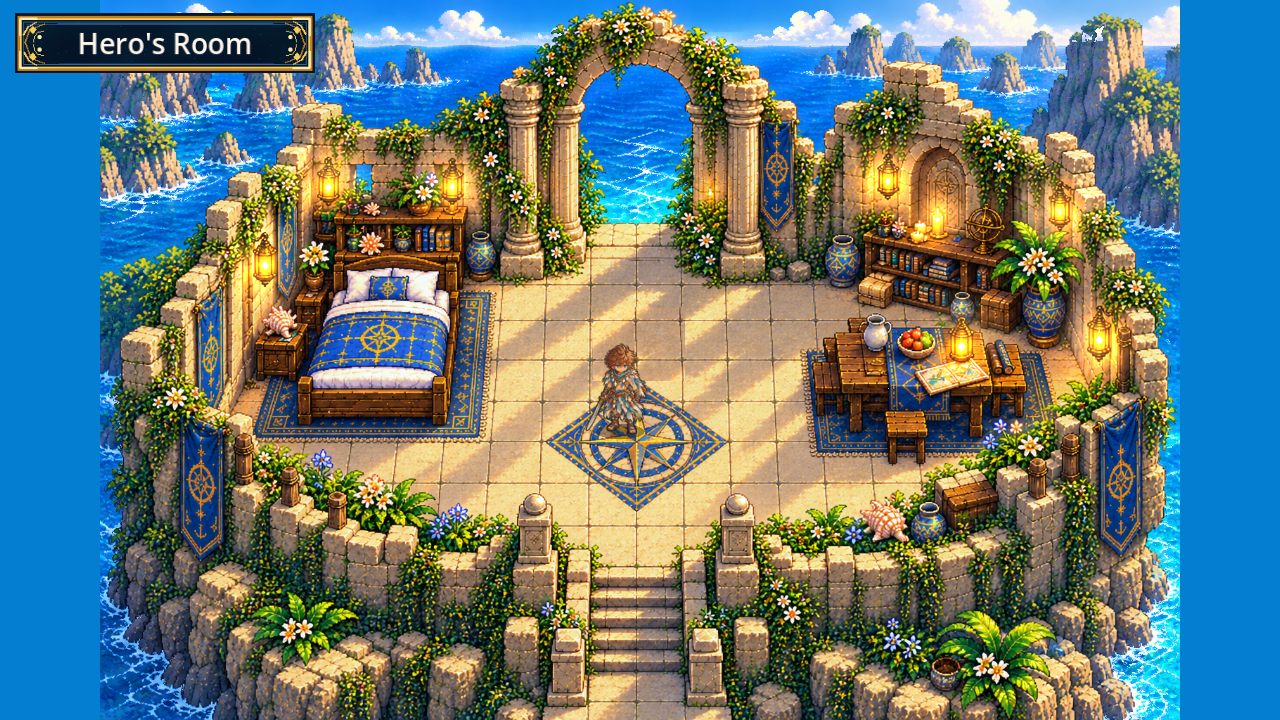
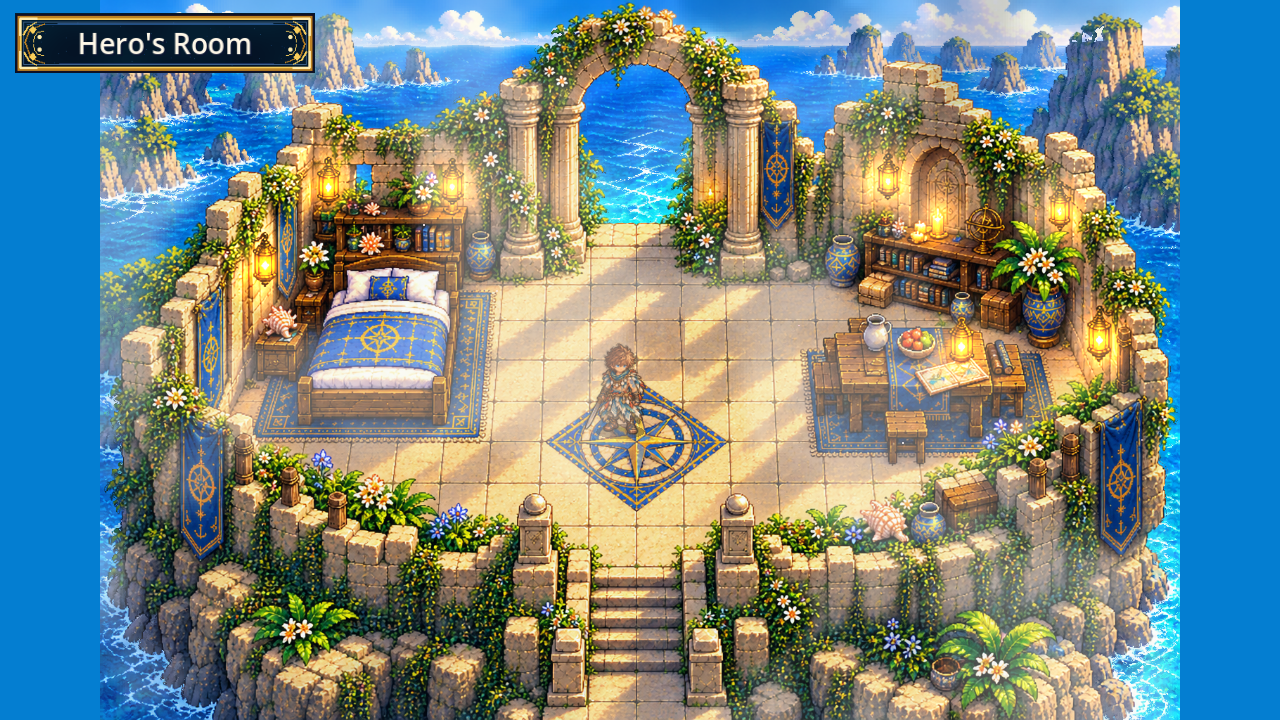
feat(room): drifting haze over the painted room; drop square spray; request Shining Force style hero frame (TASK-0168)

diff --git a/.agents/tasks/TASK-0168_hero_room_from_painting.md b/.agents/tasks/TASK-0168_hero_room_from_painting.md
@@ -8,7 +8,7 @@ branch: claude/photo-backdrop-test
 depends_on: TASK-0167
 issue: none
 art_request: ART-0050
-touches: .agents/tasks/TASK-0168_hero_room_from_painting.md,.agents/graphics/requests/ART-0050_hero_room_painting_clean_plate.md,.agents/graphics/requests/ART-0051_hero_room_small_flying_creatures.md,.agents/graphics/requests/reference_crops/ART-0050_painted_characters_target.png,scenes/main.gd,scenes/photo_room_life.gd,scenes/hero_source_art.gd,scenes/player.gd,tools/hero_source_frames.py,game_factory/hero_map_source_frames.json,.agents/graphics/requests/ART-0052_hero_room_waves_breaking_on_rocks.md,.agents/graphics/requests/ART-0053_hero_room_painted_style_clouds.md,map_factory/photo_rooms/hero_room_01.json,tools/verify_main_equipment.gd,tools/capture_game_window.gd,docs/previews/map_factory_renders/photo_backdrop_test/photo_mode.png
+touches: .agents/tasks/TASK-0168_hero_room_from_painting.md,.agents/graphics/requests/ART-0050_hero_room_painting_clean_plate.md,.agents/graphics/requests/ART-0051_hero_room_small_flying_creatures.md,.agents/graphics/requests/reference_crops/ART-0050_painted_characters_target.png,scenes/main.gd,scenes/photo_room_life.gd,scenes/hero_source_art.gd,scenes/player.gd,tools/hero_source_frames.py,game_factory/hero_map_source_frames.json,.agents/graphics/requests/ART-0054_hero_map_sprite_shining_force_style.md,.agents/graphics/requests/ART-0052_hero_room_waves_breaking_on_rocks.md,.agents/graphics/requests/ART-0053_hero_room_painted_style_clouds.md,map_factory/photo_rooms/hero_room_01.json,tools/verify_main_equipment.gd,tools/capture_game_window.gd,docs/previews/map_factory_renders/photo_backdrop_test/photo_mode.png
 test: python tools/run_tests.py --changed
 done_when: F5 shows the hero room as the owner's target painting with the hero walking only on the painted floor and stairs; F3 switches to the Map Factory pieces and back; a headless test proves the painted bed, table and parapet are closed and the stairs are open.
 estimate_minutes: 150
@@ -27,6 +27,7 @@ Not done here:
 - Owner (2026-11-13, second test): hero small and low quality; birds, butterflies, waves and clouds bad. Done: the hero is drawn from the 1254 px source frames (`scenes/hero_source_art.gd`, index from `tools/hero_source_frames.py`) at 128 px, about two floor tiles; the code gulls, butterflies, wave streaks and reused clouds are removed. Real art is requested instead: ART-0051 flyers, ART-0052 waves breaking on the rocks, ART-0053 clouds.
 - The hero sources are local files (git-ignored, `.gdignore`): on a machine without them the 96 px factory frames show.
 - Owner (2026-11-13, third test): "everything looks dead". Life brought back without new art: clouds cut from the painting's own sky drift behind the arch and stacks, the sea ripples and glints, pixel spray bursts where the painted foam meets the rocks, petals drift across the room, the hero has a dark rim and a ground shadow. These are modest; real breaking waves and creatures still need ART-0051 and ART-0052.
+- Owner (2026-11-13, fourth test): waves feel bad, wants fog or clouds over the whole screen, hero more like Shining Force. Done: the square spray is removed; a drifting haze with soft cloud shadows lies over the whole picture (noise shader, above the characters). The hero's style cannot be changed by code (a chunky-pixel reduction was tried and looked worse); ART-0054 asks for one frame in Shining Force proportions for the owner to approve.
 - The cover is a stand-in: the painting file is untouched and ART-0050 still asks Codex for a clean painting.
 - Characters never pass behind painted furniture; the walk squares are cut so that this is not needed.
 - The side margins of the window are still flat blue.

diff --git a/.agents/graphics/requests/ART-0054_hero_map_sprite_shining_force_style.md b/.agents/graphics/requests/ART-0054_hero_map_sprite_shining_force_style.md
@@ -1,0 +1,42 @@
+---
+id: ART-0054
+status: requested
+owner: graphics-specialist
+task: TASK-0168
+dedupe_key: hero_map_sprite_shining_force_style
+existing_asset_ids: CHAR001
+output_paths: .agents/graphics/deliveries/ART-0054/hero_map_sf_down_idle_01.png
+---
+# Hero map sprite in classic Shining Force proportions (first frame only)
+
+**What is wrong today:** The owner (2026-11-13, three times): "the hero must be more like Shining Force". The current map frames (`assets/characters/hero/map/*/sources/`, 1254 px) show a detailed figure about three heads tall with a long feather cloak. Shown in the painted room it reads as an illustration, not as a tactical-RPG map sprite. Reducing it to chunky pixels in code was tried and lost the face and the cloak detail.
+
[1 lines of base64/hex data omitted]
+
[1 lines of base64/hex data omitted]
+
+**Camera and light (same for every hero-room piece):** three-quarter top-down view, camera south looking north and about 50 degrees down. Warm late-afternoon sun from the upper left.
+
+**Exact specification (ONE frame, one direction, so the style can be approved before the other 39 frames):**
+- Facing down (toward the camera), standing idle, sword held low at the right hand side.
+- Classic Shining Force / 16-bit tactical RPG map proportions: about 2 to 2.5 heads tall, large head, big readable eyes, short body, small hands and feet.
+- Bold dark outline around the whole figure (1 px at native size), flat clear colour areas with two or three shades each, no fine feather texture: the cloak reads as a few large blue, white and orange feather shapes.
+- Same design as the reference: spiky brown hair, blue eyes, teal scarf, feather cloak, rope belt, sandals.
+- Native size: figure 80 px tall inside a 96x96 px frame, feet centred at x=48, y=90.
+- Do NOT draw: floor, shadow, background, motion lines, text.
+
+**Output format:** one RGBA PNG, transparent background, the figure only. Master at least 4x (384x384), native 96x96 as a clean reduction on the same pixel grid. Manifest records pixel size, anchor [48, 90] and SHA-256.
+
+## Request checklist
+- [x] Duplicate scan against asset IDs, active requests and previous deliveries.
+- [x] Reference paths and hashes attached; reference crop attached.
+- [x] Specifications reviewed; marked `requested`.
+
+## Graphics specialist checklist
+- [ ] Clean PNG produced (ONLY graphics specialist); SHA-256 manifest written; mark `delivered`.
+
+## QA checklist
+- [ ] Owner looks at the frame inside the painted room and approves the style before more frames are requested; mark `reviewed`.
+
+## Integration checklist
+- [ ] Shown in the painted room; PR merged; mark `integrated`.
